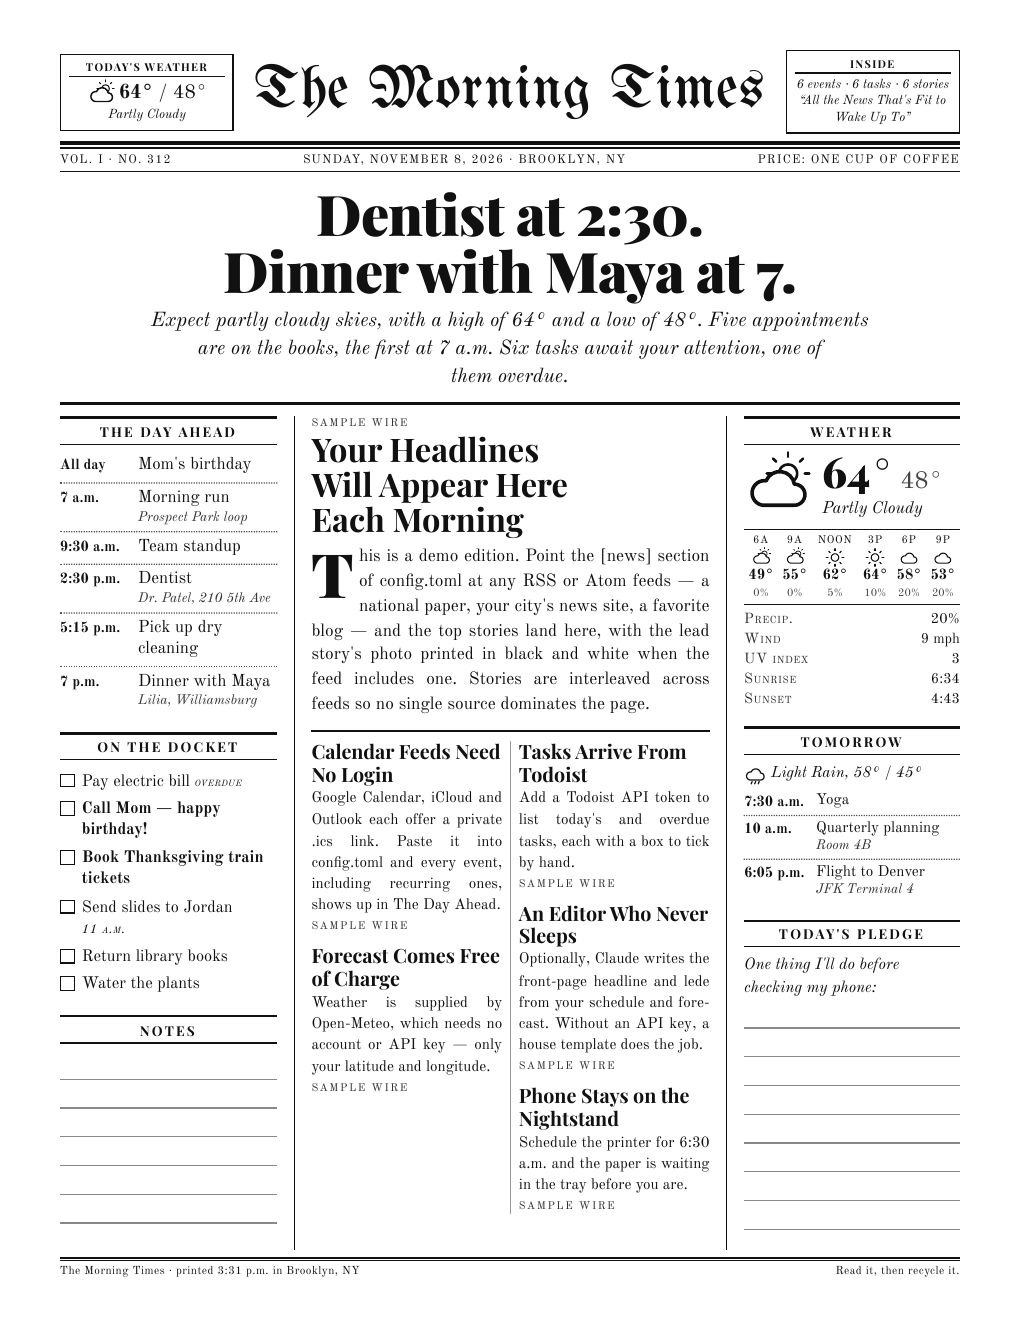
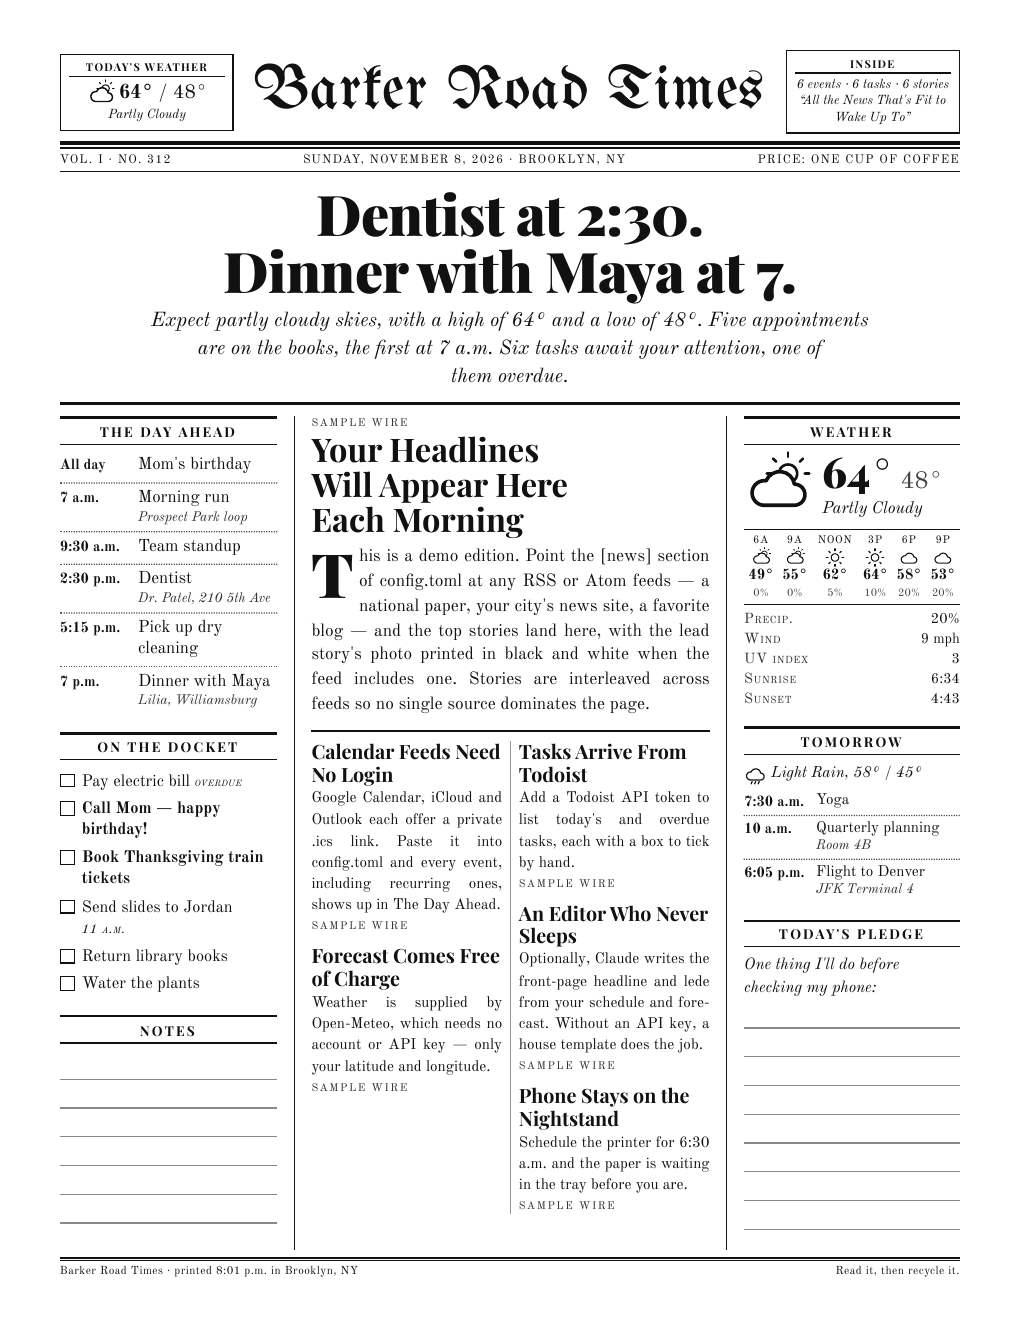
Name the paper Barker Road Times
Make it the default masthead, the example config's name and the demo
edition's title, and refresh the README sample image.

Claude-Session: https://claude.ai/code/session_013C1dUTS3tUufRTLXZ5FGJK

Changed region(s): [[0.2431, 0.0311, 0.5775, 0.0932], [0.6078, 0.0311, 0.7294, 0.0932]]

diff --git a/tests/test_render.py b/tests/test_render.py
@@ -22,8 +22,8 @@ def demo_html(**paper):
 
 
 def test_demo_renders_masthead_and_sections():
-    ed, html = demo_html(name="The Karen Times")
-    assert "The Karen Times" in html
+    ed, html = demo_html()
+    assert "Barker Road Times" in html
     assert ed.headline == "Dentist at 2:30. Dinner with Maya at 7."
     for section in ("The Day Ahead", "On the Docket", "Weather", "Tomorrow"):
         assert section in html

diff --git a/paper/config.py b/paper/config.py
@@ -15,7 +15,7 @@ except ModuleNotFoundError:  # Python < 3.11
 
 DEFAULTS: dict[str, Any] = {
     "paper": {
-        "name": "The Morning Times",
+        "name": "Barker Road Times",
         "tagline": "All the News That's Fit to Wake Up To",
         "city": "",
         "timezone": "",  # IANA name, e.g. "America/New_York"; blank = this computer's zone

diff --git a/paper/cli.py b/paper/cli.py
@@ -158,7 +158,7 @@ def main(argv: list[str] | None = None) -> int:
         return 2
 
     if args.demo and not use_file:
-        cfg["paper"].update(name="The Morning Times", city="Brooklyn, NY")
+        cfg["paper"].update(city="Brooklyn, NY")
 
     ed = build_edition(cfg, day, tz, use_demo=args.demo)
 

diff --git a/README.md b/README.md
@@ -1,4 +1,4 @@
-# The Morning Paper
+# Barker Road Times
 
 Print a one-page newspaper of **your** day every morning, so the first thing you read
 isn't your phone. Your calendar becomes the headline (“Dentist at 2:30. Dinner with Maya at 7.”),
@@ -41,7 +41,7 @@ cp config.example.toml config.toml
 
 Then edit `config.toml` (it's git-ignored, so your private links stay local):
 
-1. **Name your paper.** `name = "The Karen Times"`, plus your city and time zone.
+1. **Name your paper.** It's `name = "Barker Road Times"`; change it any time. Add your city and time zone.
 2. **Weather.** Put in your latitude/longitude (right-click any spot in Google Maps to copy them).
 3. **Calendar.** Paste each calendar's private iCal link into `ics_urls`:
    - Google: Calendar settings → your calendar → *Integrate calendar* → **Secret address in iCal format**
